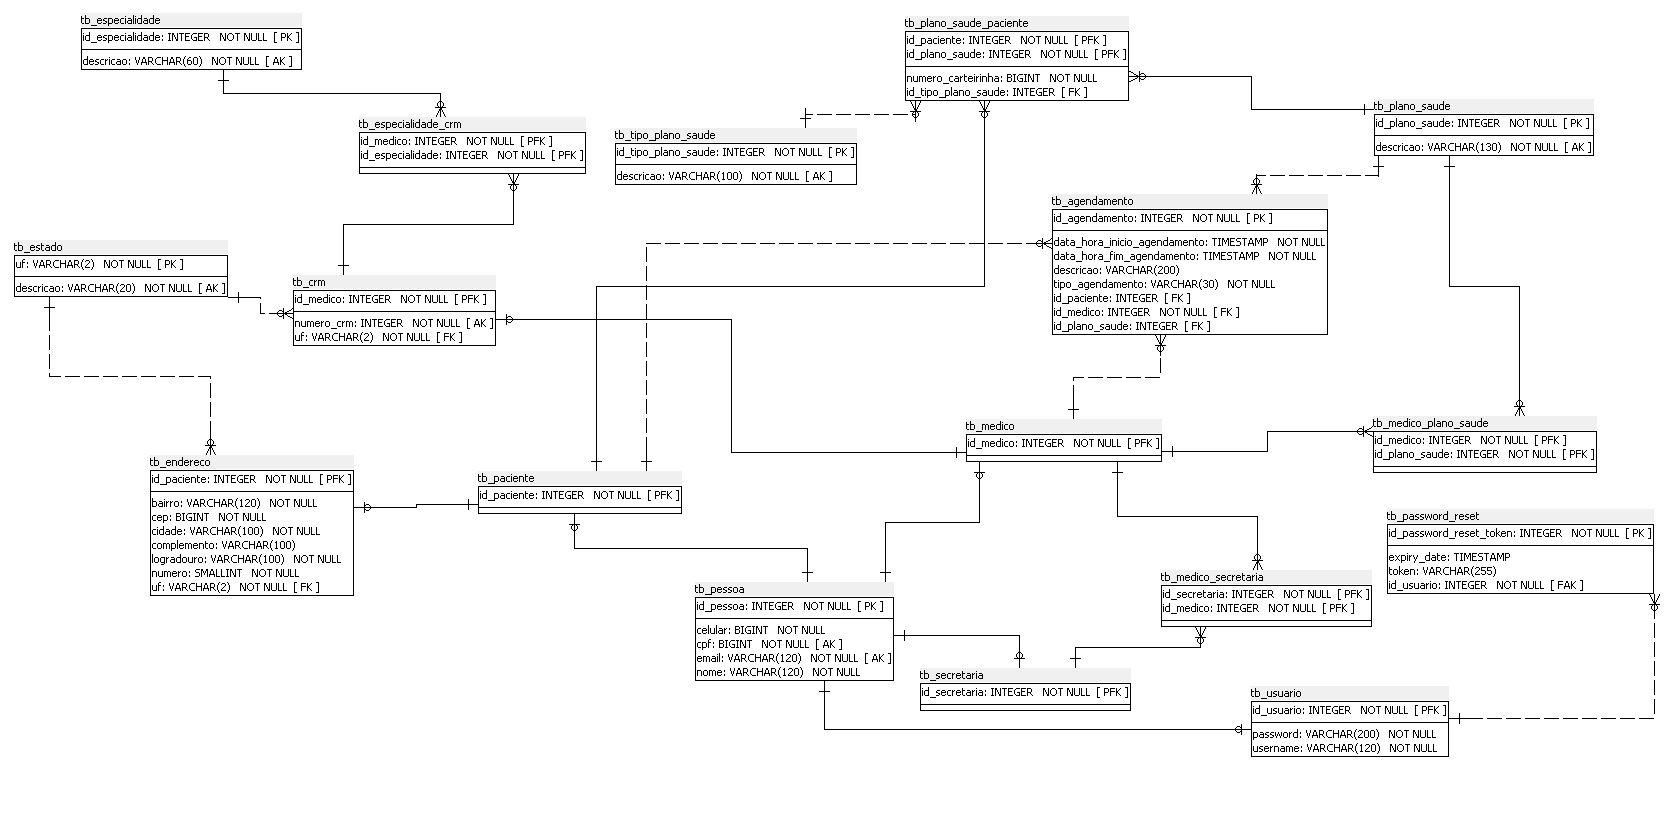
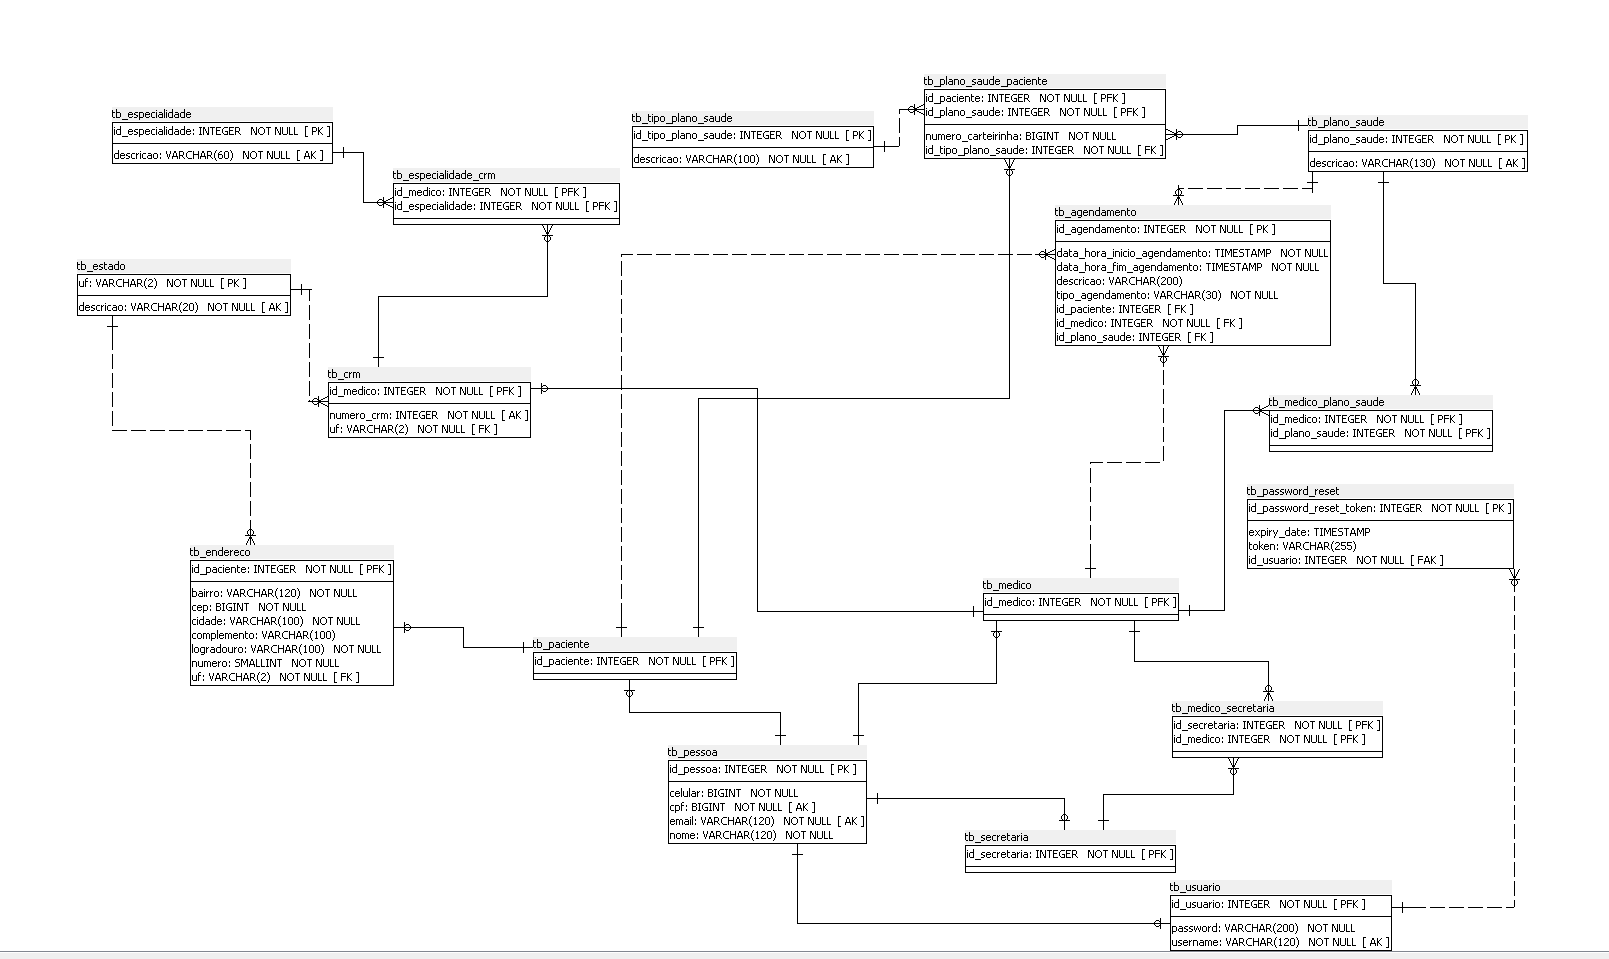
refactor: altera mapeamento de algumas entidades

diff --git a/src/main/java/com/medlinked/entities/Pessoa.java b/src/main/java/com/medlinked/entities/Pessoa.java
@@ -19,7 +19,7 @@ public class Pessoa {
     @Column(length = 120, nullable = false)
     private String nome;
 
-    @Column(nullable = false, unique = true, columnDefinition = "bigint")
+    @Column(nullable = false, unique = true)
     private Long cpf;
 
     @Column(length = 120, unique = true, nullable = false)

diff --git a/src/main/java/com/medlinked/entities/Usuario.java b/src/main/java/com/medlinked/entities/Usuario.java
@@ -27,7 +27,7 @@ public class Usuario implements UserDetails {
     @JoinColumn(name = "id_usuario")
     private Pessoa pessoa;
 
-    @Column(nullable = false, length = 120)
+    @Column(nullable = false, length = 120, unique = true)
     private String username;
 
     @JsonIgnore

diff --git a/src/main/java/com/medlinked/entities/Especialidade.java b/src/main/java/com/medlinked/entities/Especialidade.java
@@ -18,7 +18,6 @@ import java.util.Set;
 public class Especialidade {
     @Id
     @GeneratedValue(strategy = GenerationType.IDENTITY)
-    @Column(columnDefinition = "smallint")
     private Integer idEspecialidade;
 
     @Column(nullable = false, length = 60, unique = true)

diff --git a/src/main/java/com/medlinked/entities/TipoPlanoSaude.java b/src/main/java/com/medlinked/entities/TipoPlanoSaude.java
@@ -13,7 +13,6 @@ import lombok.*;
 public class TipoPlanoSaude {
     @Id
     @GeneratedValue(strategy = GenerationType.IDENTITY)
-    @Column(columnDefinition = "smallint")
     private Integer idTipoPlanoSaude;
 
     @Column(nullable = false, length = 100, unique = true)

diff --git a/src/main/java/com/medlinked/entities/PlanoSaudePaciente.java b/src/main/java/com/medlinked/entities/PlanoSaudePaciente.java
@@ -40,7 +40,7 @@ public class PlanoSaudePaciente {
     private Long numeroCarteirinha;
 
     @ManyToOne
-    @JoinColumn(name = "id_tipo_plano_saude")
+    @JoinColumn(name = "id_tipo_plano_saude", nullable = false)
     private TipoPlanoSaude tipoPlanoSaude;
 
 }

diff --git a/src/main/java/com/medlinked/entities/PlanoSaude.java b/src/main/java/com/medlinked/entities/PlanoSaude.java
@@ -18,7 +18,6 @@ public class PlanoSaude {
 
     @Id
     @GeneratedValue(strategy = GenerationType.IDENTITY)
-    @Column(columnDefinition = "smallint")
     private Integer idPlanoSaude;
 
     @Column(nullable = false, length = 130, unique = true)
